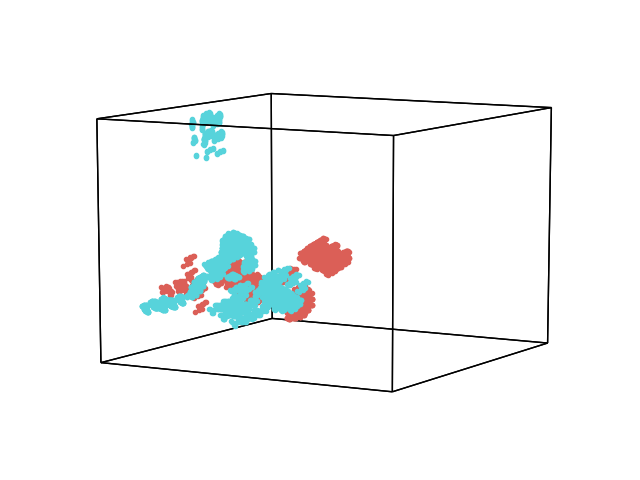
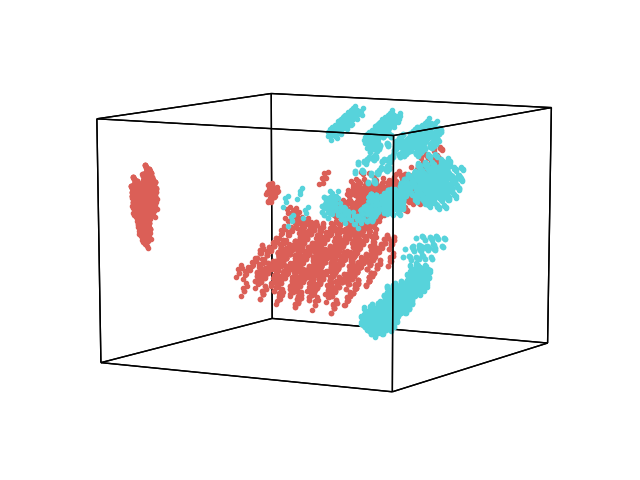
fixed plot_geo

Changed region(s): [[0.2188, 0.2188, 0.75, 0.7188], [0.1875, 0.3438, 0.25, 0.5312], [0.2812, 0.2188, 0.375, 0.3438]]

diff --git a/docs/auto_examples/plot_geo.py b/docs/auto_examples/plot_geo.py
@@ -24,10 +24,10 @@ import hypertools as hyp
 geo = hyp.load('mushrooms')
 
 # plot
-t = geo.plot(normalize='within')
+t = geo.plot()
 
 # replot with new parameters
-geo.plot(color='green')
+geo.plot(normalize='within', color='green')
 
 # save the object
 # geo.save('test')

diff --git a/examples/plot_geo.py b/examples/plot_geo.py
@@ -24,10 +24,10 @@ import hypertools as hyp
 geo = hyp.load('mushrooms')
 
 # plot
-t = geo.plot(normalize='within')
+t = geo.plot()
 
 # replot with new parameters
-geo.plot(color='green')
+geo.plot(normalize='within', color='green')
 
 # save the object
 # geo.save('test')

diff --git a/docs/auto_examples/plot_geo.rst b/docs/auto_examples/plot_geo.rst
@@ -49,10 +49,10 @@ that were applied to the geo.
     geo = hyp.load('mushrooms')
 
     # plot
-    t = geo.plot(normalize='within')
+    t = geo.plot()
 
     # replot with new parameters
-    geo.plot(color='green')
+    geo.plot(normalize='within', color='green')
 
     # save the object
     # geo.save('test')
@@ -72,7 +72,7 @@ that were applied to the geo.
     # get the formatted data
     # geo.get_formatted_data()
 
-**Total running time of the script:** ( 0 minutes  0.713 seconds)
+**Total running time of the script:** ( 0 minutes  0.715 seconds)
 
 
 
